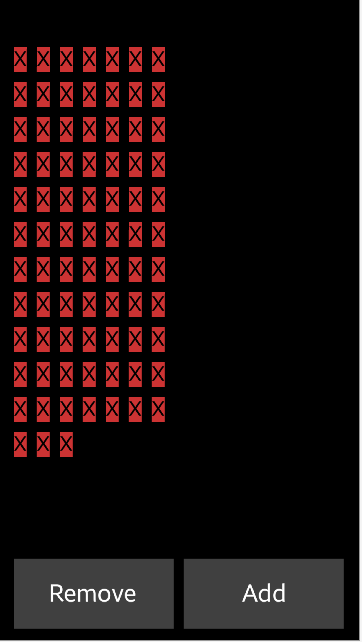
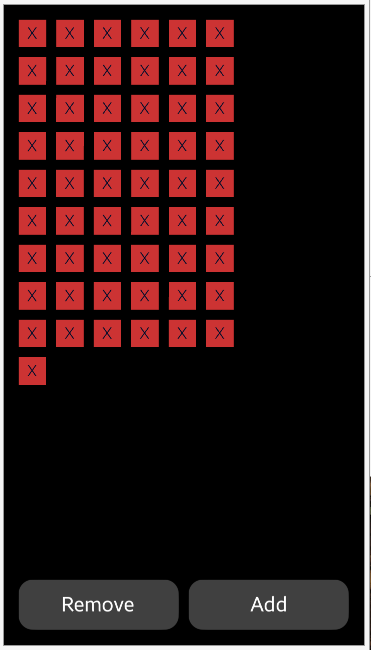
[NUI][GridLayout] warnings removed; preventing to draw outside the window

diff --git a/Mobile/NUI/GridLayout/NUIGridLayout/NUIGridLayout.cs b/Mobile/NUI/GridLayout/NUIGridLayout/NUIGridLayout.cs
@@ -42,11 +42,33 @@ namespace NUIGridLayout
         /// <summary>
         /// Items in view count
         /// </summary>
-        private static int ItemsCnt = 40;
+        private static int ItemsCnt = 55;
         /// <summary>
         /// Items in one column count
         /// </summary>
-        private static int ColumnCnt = 5;
+        private static int ColumnCnt = 6;
+        /// <summary>
+        /// Width/Height of the single item
+        /// </summary>
+        private static int ItemSide = 55;
+        /// <summary>
+        /// Right/Left/Top/Bottom single item margin
+        /// </summary>
+        private static ushort ItemMargin = 10;
+
+        /// <summary>
+        /// Custom style for a button
+        /// <summary>
+        ButtonStyle Style = new ButtonStyle
+        {
+            Size = new Size(300, 100),
+            CornerRadius = 28.0f,
+            BackgroundColor = new Selector<Color>()
+            {
+                Other = new Color(0.25f, 0.25f, 0.25f, 1.0f),
+                Disabled = new Color(0.8f, 0.8f, 0.8f, 1.0f),
+            },
+        };
 
         /// <summary>
         /// Overridden method that is called after app launch
@@ -93,8 +115,6 @@ namespace NUIGridLayout
                 Padding = new Extents(20, 20, 20, 20),
             };
 
-            InitGrid();
-
             ButtonView = new View()
             {
                 WidthSpecification = LayoutParamPolicies.MatchParent,
@@ -116,8 +136,11 @@ namespace NUIGridLayout
             for (int i = 0; i < ItemsCnt; i++)
             {
                 TextLabel t = new TextLabel();
-                t.Margin = new Extents(10, 10, 10, 10);
+                t.Margin = new Extents(ItemMargin, ItemMargin, ItemMargin, ItemMargin);
                 t.Text = "X";
+                t.HorizontalAlignment = HorizontalAlignment.Center;
+                t.VerticalAlignment = VerticalAlignment.Center;
+                t.Size2D = new Size2D(ItemSide, ItemSide);
                 t.BackgroundColor = new Color(0.8f, 0.2f, 0.2f, 1.0f);
                 TopView.Add(t);
             }
@@ -132,55 +155,80 @@ namespace NUIGridLayout
             ButtonLayout.LinearOrientation = LinearLayout.Orientation.Horizontal;
             ButtonView.Layout = ButtonLayout;
 
-            Button1 = new Button()
+            Button1 = new Button(Style)
             {
-                BackgroundColor = new Color(0.25f, 0.25f, 0.25f, 1.0f),
                 WidthSpecification = LayoutParamPolicies.MatchParent,
                 HeightSpecification = LayoutParamPolicies.WrapContent,
                 Text = "Remove",
                 TextColor = Color.White,
+                TextAlignment = HorizontalAlignment.Center,
                 Margin = new Extents(10, 10, 10, 10),
             };
 
-            Button2 = new Button()
+            Button2 = new Button(Style)
             {
-                BackgroundColor = new Color(0.25f, 0.25f, 0.25f, 1.0f),
                 WidthSpecification = LayoutParamPolicies.MatchParent,
                 HeightSpecification = LayoutParamPolicies.WrapContent,
                 Text = "Add",
                 TextColor = Color.White,
+                TextAlignment = HorizontalAlignment.Center,
                 Margin = new Extents(10, 10, 10, 10),
             };
 
             ButtonView.Add(Button1);
             ButtonView.Add(Button2);
 
-            Button1.ClickEvent += Button1Clicked;
-            Button2.ClickEvent += Button2Clicked;
+            Button1.Clicked += Button1Clicked;
+            Button2.Clicked += Button2Clicked;
         }
 
         /// <summary>
         /// The method called when the left button is clicked
+        /// It dos not allow to go outside the window boundaries - disables the left button
         /// </summary>
         /// <param name="sender">Button instance</param>
         /// <param name="e">Event arguments</param>
-        private void Button1Clicked(object sender, Button.ClickEventArgs e)
+        private void Button1Clicked(object sender, ClickedEventArgs e)
         {
             ColumnCnt = ColumnCnt - 1 > 0 ? ColumnCnt - 1 : 1;
             var MyGridLayout = TopView.Layout as GridLayout;
             MyGridLayout.Columns = ColumnCnt;
+
+            if (!Button2.IsEnabled)
+            {
+                Button2.IsEnabled = true;
+            }
+
+            var RowCnt = Math.Ceiling((double)(ItemsCnt) / (MyGridLayout.Columns - 1));
+            int NextItemsHeight = (int)((ItemSide + 2 * ItemMargin) * RowCnt + TopView.Padding.Top + TopView.Padding.Bottom);
+            if (NextItemsHeight > TopView.SizeHeight)
+            {
+                Button1.IsEnabled = false;
+            }
         }
 
         /// <summary>
-        /// The method called when the right button is clicked
+        /// The method called when the right button is clicked.
+        /// It dos not allow to go outside the window boundaries - disables the right button
         /// </summary>
         /// <param name="sender">Button instance</param>
         /// <param name="e">Event arguments</param>
-        private void Button2Clicked(object sender, Button.ClickEventArgs e)
+        private void Button2Clicked(object sender, ClickedEventArgs e)
         {
             ++ColumnCnt;
             var MyGridLayout = TopView.Layout as GridLayout;
             MyGridLayout.Columns = ColumnCnt;
+
+            if (!Button1.IsEnabled)
+            {
+                Button1.IsEnabled = true;
+            }
+
+            int NextItemsWidth = (int)((ItemSide + 2 * ItemMargin) * (ColumnCnt + 1) + TopView.Padding.Start + TopView.Padding.End);
+            if (NextItemsWidth > TopView.SizeWidth)
+            {
+                Button2.IsEnabled = false;
+            }
         }
 
         /// <summary>
